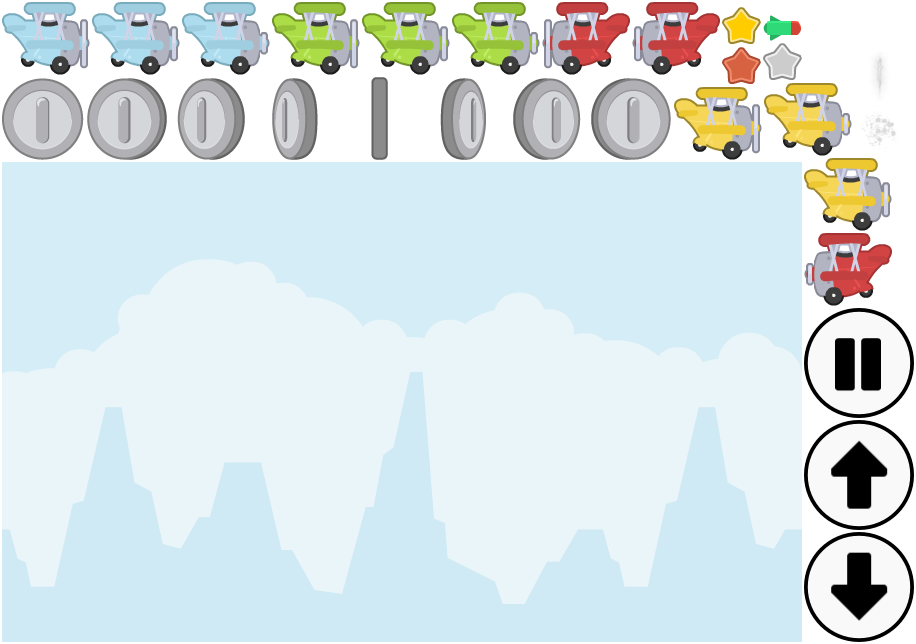
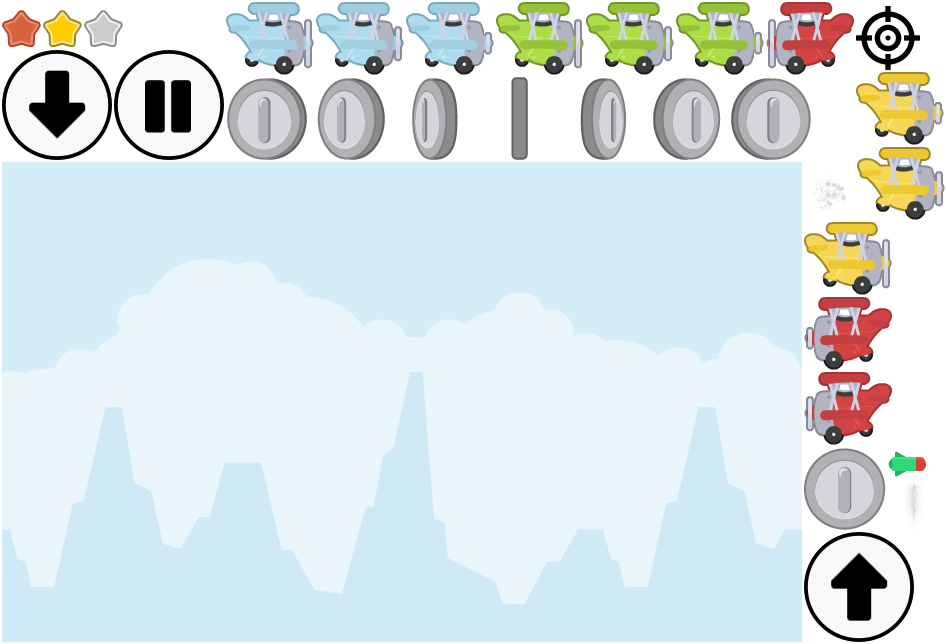
added attenuation to lives TODO show attenuated rectangle on pause when lose a live

diff --git a/core/src/net/estemon/studio/screens/game/UiRenderer.java b/core/src/net/estemon/studio/screens/game/UiRenderer.java
@@ -13,16 +13,23 @@ import com.badlogic.gdx.scenes.scene2d.ui.Image;
 import com.badlogic.gdx.scenes.scene2d.ui.Label;
 import com.badlogic.gdx.scenes.scene2d.ui.Skin;
 import com.badlogic.gdx.scenes.scene2d.ui.Table;
+import com.badlogic.gdx.scenes.scene2d.ui.TextButton;
 import com.badlogic.gdx.scenes.scene2d.utils.ClickListener;
 import com.badlogic.gdx.utils.viewport.Viewport;
+import com.rafaskoberg.gdx.typinglabel.TypingLabel;
 
+import net.estemon.studio.FlippyGame;
 import net.estemon.studio.assets.AssetDescriptors;
 import net.estemon.studio.assets.RegionNames;
 import net.estemon.studio.common.GameManager;
 import net.estemon.studio.config.GameConfig;
+import net.estemon.studio.screens.menu.SplashScreen;
+
+import javax.imageio.stream.ImageInputStream;
 
 public class UiRenderer extends ScreenAdapter {
 
+    private FlippyGame game;
     private AssetManager assetManager;
     private GameController controller;
     protected Stage stage;
@@ -41,7 +48,13 @@ public class UiRenderer extends ScreenAdapter {
     private TextureRegion downButtonTexture;
     private Image downButtonImage;
 
-    public UiRenderer(AssetManager assetManager, Viewport uiViewport, GameController controller) {
+    private TextureRegion shootButtonTexture;
+    private Image shootButtonImage;
+
+    private boolean shownEnd;
+
+    public UiRenderer(FlippyGame game, AssetManager assetManager, Viewport uiViewport, GameController controller) {
+        this.game = game;
         this.assetManager = assetManager;
         this.stage = new Stage(uiViewport);
         this.skin = assetManager.get(AssetDescriptors.UI_SKIN);
@@ -123,24 +136,34 @@ public class UiRenderer extends ScreenAdapter {
                     controller.setShouldGoStraight(true);
                 }
             });
+
+            shootButtonTexture = gameplayAtlas.findRegion(RegionNames.SHOOT_BUTTON);
+            shootButtonImage = new Image(shootButtonTexture);
+
+            shootButtonImage.addListener(new ClickListener() {
+                @Override
+                public void clicked(InputEvent event, float x, float y) {
+                    controller.createNewBullet();
+                }
+            });
         }
-
-
 
         // Buttons table
         Table buttonsTable = new Table();
-        //buttonsTable.debugAll();
+        // buttonsTable.debugAll();
         buttonsTable.add().expandY();
+        buttonsTable.add();
         buttonsTable.add(pauseButtonImage).expandY().size(80, 80).right().top().row();
         buttonsTable.bottom();
-        buttonsTable.add(upButtonImage).left().expand();
+        buttonsTable.add(upButtonImage).left();
+        buttonsTable.add(shootButtonImage).left().pad(20).expand();
         buttonsTable.add(downButtonImage).right().expand();
 
         // Adding to screen table
         table.add(scoreLabel).pad(20).padLeft(150).expandX().left();
         table.add(livesTable).pad(20).row();
         table.add(buttonsTable).pad(20).colspan(2).expand().bottom().fillX().fillY();
-        //table.debugAll();
+        // table.debugAll();
 
         // Add to stage
         stage.getRoot().getColor().a = 0;
@@ -158,6 +181,10 @@ public class UiRenderer extends ScreenAdapter {
 
         updateLives(controller.getLives());
         updatePause();
+
+        if (controller.isGameOver()) {
+            showFinalScore();
+        }
 
         stage.act();
         stage.draw();
@@ -187,6 +214,58 @@ public class UiRenderer extends ScreenAdapter {
             for (Image image : livesImages) {
                 image.setColor(1, 1, 1, 0.1f);
             }
+        }
+    }
+
+    private void showFinalScore() {
+        if (!shownEnd) {
+            Table table = new Table();
+            table.setFillParent(true);
+            // table.debugAll();
+            table.defaults().center();
+
+            int score = controller.getScore();
+
+            TypingLabel scoreLabel = new TypingLabel("{SLIDE}{HANG=1;0.5}" + String.valueOf(score) + " points!", skin, "title-font");
+
+            String message;
+            switch (controller.checkFinalScore()) {
+                case 0:
+                    message = "that was... it's hard to play it worse!";
+                    break;
+                case 1:
+                    message = "that's great! well done!";
+                    break;
+                case 2:
+                    message = "wow! unbelievable! hard to play better!";
+                    break;
+                default:
+                    message = "";
+            }
+
+            Label messageLabel = new Label(message, skin);
+
+            TextButton menuScreenButton = new TextButton("MENU", skin);
+            menuScreenButton.addListener(new ClickListener() {
+                @Override
+                public void clicked(InputEvent event, float x, float y) {
+                    game.setScreen(new SplashScreen(game));
+                }
+            });
+
+            table.add(scoreLabel).row();
+            table.add(messageLabel).row();
+            table.add(menuScreenButton).pad(10);
+
+            stage.addActor(table);
+
+            shownEnd = true;
+
+            // Hide other screen elements
+            pauseButtonImage.setVisible(false);
+            upButtonImage.setVisible(false);
+            downButtonImage.setVisible(false);
+            shootButtonImage.setVisible(false);
         }
 
     }

diff --git a/core/src/net/estemon/studio/screens/game/GameRenderer.java b/core/src/net/estemon/studio/screens/game/GameRenderer.java
@@ -129,20 +129,22 @@ public class GameRenderer implements Disposable {
         debugCameraController.handleDebugInput(delta);
         debugCameraController.applyTo(camera);
 
-/*        if (Gdx.input.isTouched() && !controller.isGameOver()) {
-            Vector2 screenTouch = new Vector2(Gdx.input.getX(), Gdx.input.getY());
-            Vector2 worldTouch = viewport.unproject(new Vector2(screenTouch));
-        }*/
-
         GdxUtils.clearScreen();
 
-        // Render scroll background and gameplay
-        updateBackground(delta);
-        propellerAnimationTime += delta;
+        // Stops background and propeller animations
+        if (!controller.isPaused())
+        {
+            // Render scroll background and gameplay
+            updateBackground(delta);
+            propellerAnimationTime += delta;
+        }
+
         renderGamePlay(delta);
 
         // Render debug graphics
         // renderDebug();
+
+
     }
 
     public void updateBackground(float delta) {
@@ -173,28 +175,35 @@ public class GameRenderer implements Disposable {
 
     /************** GAMEPLAY ***************/
     private void renderGamePlay(float delta) {
+
         viewport.apply();
         batch.setProjectionMatrix(camera.combined);
+
         batch.begin();
 
         drawBackground();
         drawBullets(delta);
         drawPlayer(delta);
-        drawBonus(delta);
-        drawEnemies();
-
-        int lives = controller.getLives();
-        if (lives < GameConfig.PLAYER_START_LIVES) {
-            particleEffect1.draw(batch, delta);
-            if (lives <= 1) {
-                particleEffect2.draw(batch, delta);
-            }
+        if (!controller.isPaused()) {
+            drawBonus(delta);
         }
+        drawEnemies();
         batch.end();
 
         // Draw attenuated rectangle in case of paused game
         updateFade(delta);
-        updateGamePaused();
+
+        if (!controller.isPaused()) {
+            batch.begin();
+            int lives = controller.getLives();
+            if (lives < GameConfig.PLAYER_START_LIVES) {
+                particleEffect1.draw(batch, delta);
+                if (lives <= 1) {
+                    particleEffect2.draw(batch, delta);
+                }
+            }
+            batch.end();
+        }
     }
 
     private void drawBackground() {
@@ -376,18 +385,8 @@ public class GameRenderer implements Disposable {
     }
 
     /************* GAME PAUSED ***************/
-    private void updateGamePaused() {
-        if (screenFadeAlpha > 0f) {
-            Gdx.gl.glEnable(GL20.GL_BLEND);
-            renderer.begin(ShapeRenderer.ShapeType.Filled);
-            renderer.setColor(0, 0, 0, screenFadeAlpha);
-            renderer.rect(0, 0, GameConfig.GAME_WIDTH, GameConfig.GAME_HEIGHT);
-            renderer.end();
-            Gdx.gl.glDisable(GL20.GL_BLEND);
-        }
-    }
 
-    private void updateFade(float delta) {
+    public void updateFade(float delta) {
 
         // Show attenuated alpha pause game
         if (controller.isPaused()) {
@@ -400,6 +399,18 @@ public class GameRenderer implements Disposable {
                 screenFadeAlpha -= delta / GameConfig.FADE_DURATION;
                 screenFadeAlpha = Math.max(screenFadeAlpha, 0f);
             }
+        }
+        updateGamePaused();
+    }
+
+    private void updateGamePaused() {
+        if (screenFadeAlpha > 0f) {
+            Gdx.gl.glEnable(GL20.GL_BLEND);
+            renderer.begin(ShapeRenderer.ShapeType.Filled);
+            renderer.setColor(0, 0, 0, screenFadeAlpha);
+            renderer.rect(0, 0, GameConfig.GAME_WIDTH, GameConfig.GAME_HEIGHT);
+            renderer.end();
+            Gdx.gl.glDisable(GL20.GL_BLEND);
         }
     }
 }

diff --git a/core/src/net/estemon/studio/screens/game/GameController.java b/core/src/net/estemon/studio/screens/game/GameController.java
@@ -125,7 +125,7 @@ public class GameController {
     public void update(float delta) {
         // TODO handle game over
         if (isGameOver()) {
-            return;
+            checkFinalScore();
         }
 
         if (!isPaused) {
@@ -146,9 +146,6 @@ public class GameController {
             updateDisplayScore(delta);
             if (isPlayerCollidingWithEnemy()) {
                 lives--;
-                if (isGameOver()) {
-                    GameManager.INSTANCE.updateHighScore(score);
-                }
             }
         } else {
             music.setVolume(0.5f);
@@ -170,6 +167,9 @@ public class GameController {
     public double getPlayerRotationAngle() { return playerRotationAngle; }
     public int getLives() { return lives; }
     public int getDisplayScore() { return displayScore; }
+
+    public int getScore() { return score; }
+
     public boolean isPaused() { return isPaused; }
     public void setPaused(boolean isPaused) {
         this.isPaused = isPaused;
@@ -227,7 +227,7 @@ public class GameController {
         removePassedBullets();
     }
 
-    private void createNewBullet() {
+    public void createNewBullet() {
         float xPos = player.getX();
         float yPos = player.getY();
 
@@ -592,5 +592,27 @@ public class GameController {
                     displayScore + (int) (60 * delta)
             );
         }
+    }
+
+    /************** END GAME *****************/
+    public int checkFinalScore() {
+        if (!isPaused && isGameOver()) {
+            int highScore = GameManager.INSTANCE.getHighScore();
+            GameManager.INSTANCE.updateHighScore(score);
+            setPaused(true);
+
+            // Check and send
+            if (score < highScore - highScore / 20) {
+                System.out.println("[BAD!]");
+                return 0;
+            } else if (score < highScore + highScore / 20) {
+                System.out.println("[WELL DONE!]");
+                return 1;
+            } else {
+                System.out.println("[WOW!]");
+                return 2;
+            }
+        }
+        return -1;
     }
 }

diff --git a/core/src/net/estemon/studio/screens/game/GameScreen.java b/core/src/net/estemon/studio/screens/game/GameScreen.java
@@ -27,7 +27,7 @@ public class GameScreen extends BaseScreen {
     public void show() {
         controller = new GameController(game, music);
         renderer = new GameRenderer(game.getBatch(), assetManager, controller);
-        uiRenderer = new UiRenderer(assetManager, renderer.getUiViewport(), controller);
+        uiRenderer = new UiRenderer(game, assetManager, renderer.getUiViewport(), controller);
     }
 
     @Override
@@ -43,7 +43,8 @@ public class GameScreen extends BaseScreen {
 
         if (controller.isGameOver()) {
             controller.stopPropellerSound();
-            game.setScreen(new SplashScreen(game));
+
+            // game.setScreen(new SplashScreen(game));
         }
     }
 

diff --git a/core/src/net/estemon/studio/assets/AssetPaths.java b/core/src/net/estemon/studio/assets/AssetPaths.java
@@ -12,6 +12,9 @@ public class AssetPaths {
     // Sprites and UI by Kenney from https://www.kenney.nl/
     // CC0 1.0 DEED https://creativecommons.org/publicdomain/zero/1.0/
 
+    // Target icon by fjstudio from https://www.flaticon.com/authors/fjstudio
+    // Flaticon license
+
     // Coin sprites by Kexatchison from https://opengameart.org/content/2d-coin
     // CC0 1.0 DEED https://creativecommons.org/publicdomain/zero/1.0/
     public static final String GAMEPLAY_ATLAS = "gameplay.atlas";

diff --git a/core/src/net/estemon/studio/assets/Animations.java b/core/src/net/estemon/studio/assets/Animations.java
@@ -48,6 +48,7 @@ public class Animations {
             String regionName = "coin" + (i + 1);
             GameRenderer.bonus[i] = gameplayAtlas.findRegion(regionName);
         }
+
         GameRenderer.bonusAnim = new Animation<>(0.03f, GameRenderer.bonus);
         GameRenderer.bonusAnim.setPlayMode(Animation.PlayMode.LOOP);
     }

diff --git a/core/src/net/estemon/studio/assets/RegionNames.java b/core/src/net/estemon/studio/assets/RegionNames.java
@@ -9,5 +9,6 @@ public class RegionNames {
     public static final String UP_BUTTON = "arrowUp";
     public static final String DOWN_BUTTON = "arrowDown";
     public static final String PAUSE_BUTTON = "pause";
+    public static final String SHOOT_BUTTON = "shooting";
     public static final String BULLET = "bullet";
 }

diff --git a/core/src/net/estemon/studio/common/GameManager.java b/core/src/net/estemon/studio/common/GameManager.java
@@ -47,6 +47,7 @@ public class GameManager {
     }
 
     public String getHighScoreString() { return String.valueOf(highScore); }
+    public int getHighScore() { return highScore; }
 
     /********* DIFFICULTY LEVEL *********/
     public void updateDifficulty(DifficultyLevel newDifficultyLevel) {
